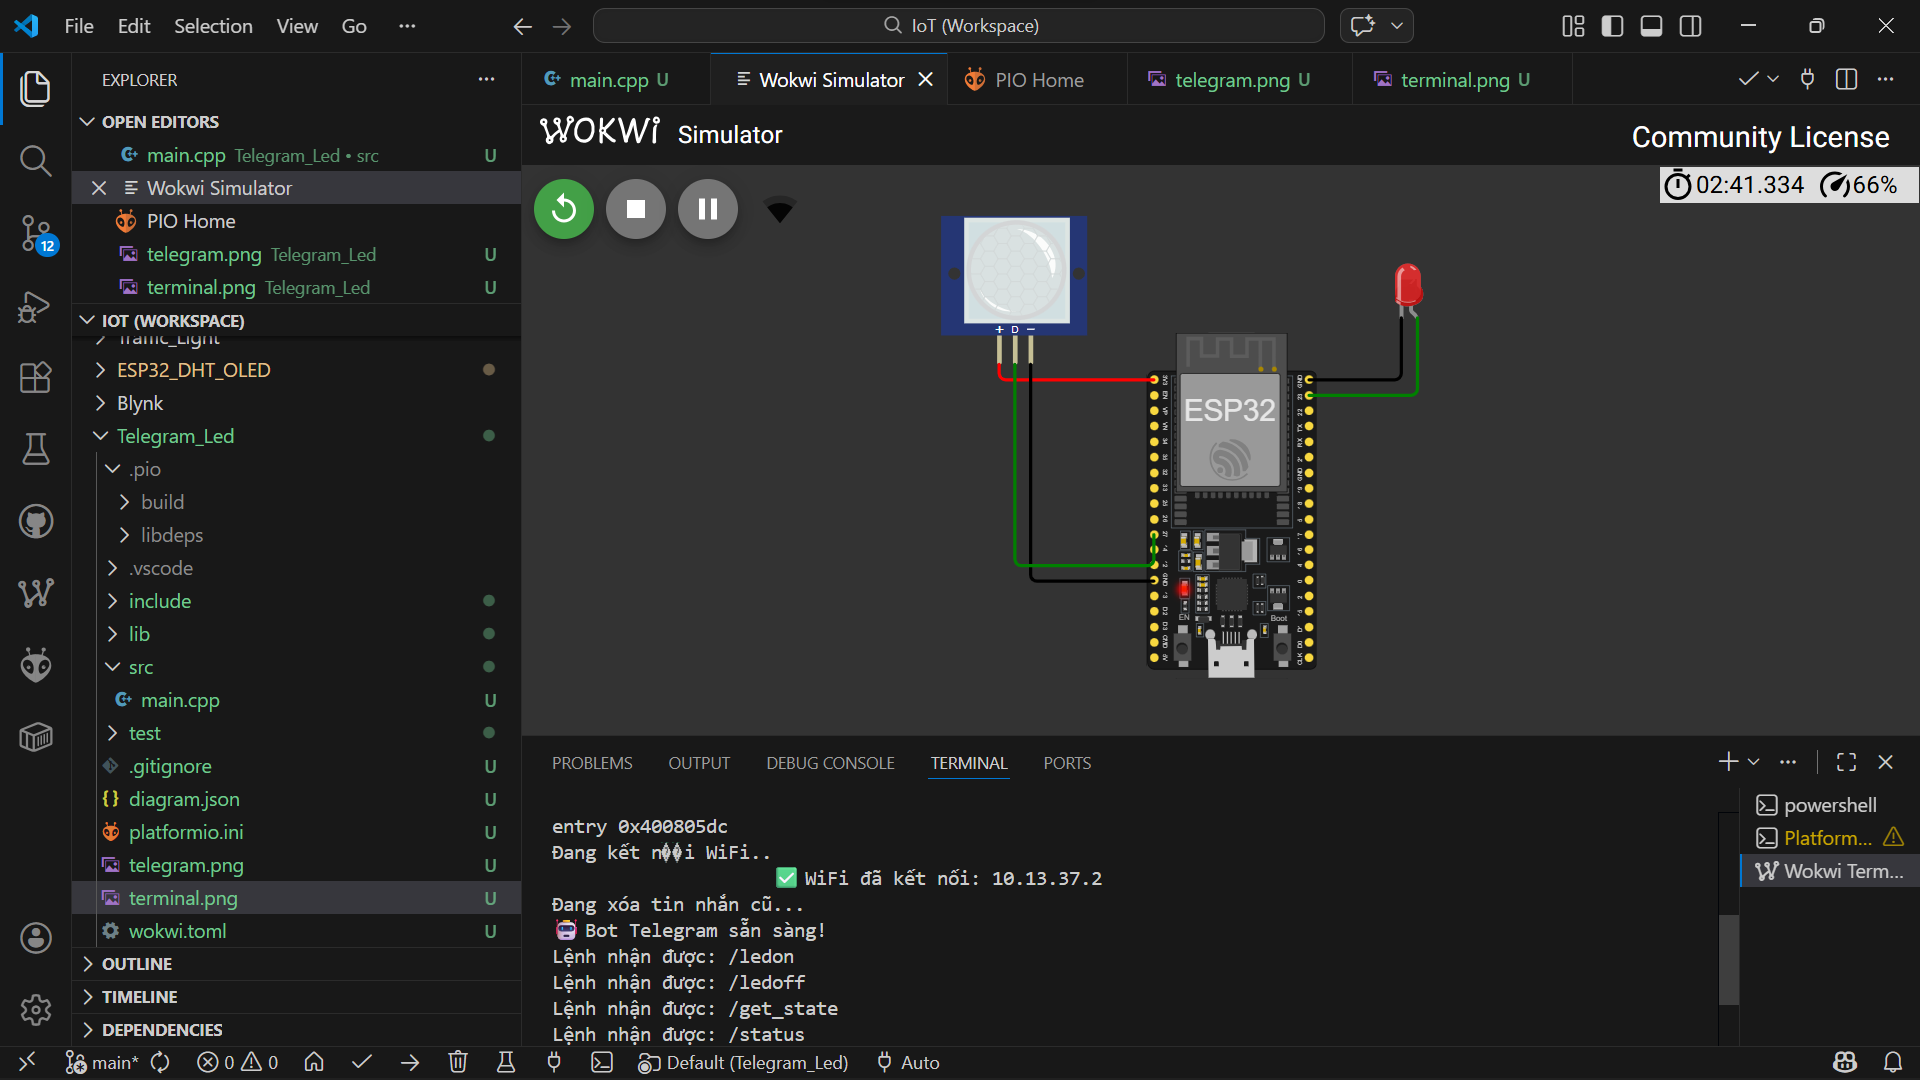
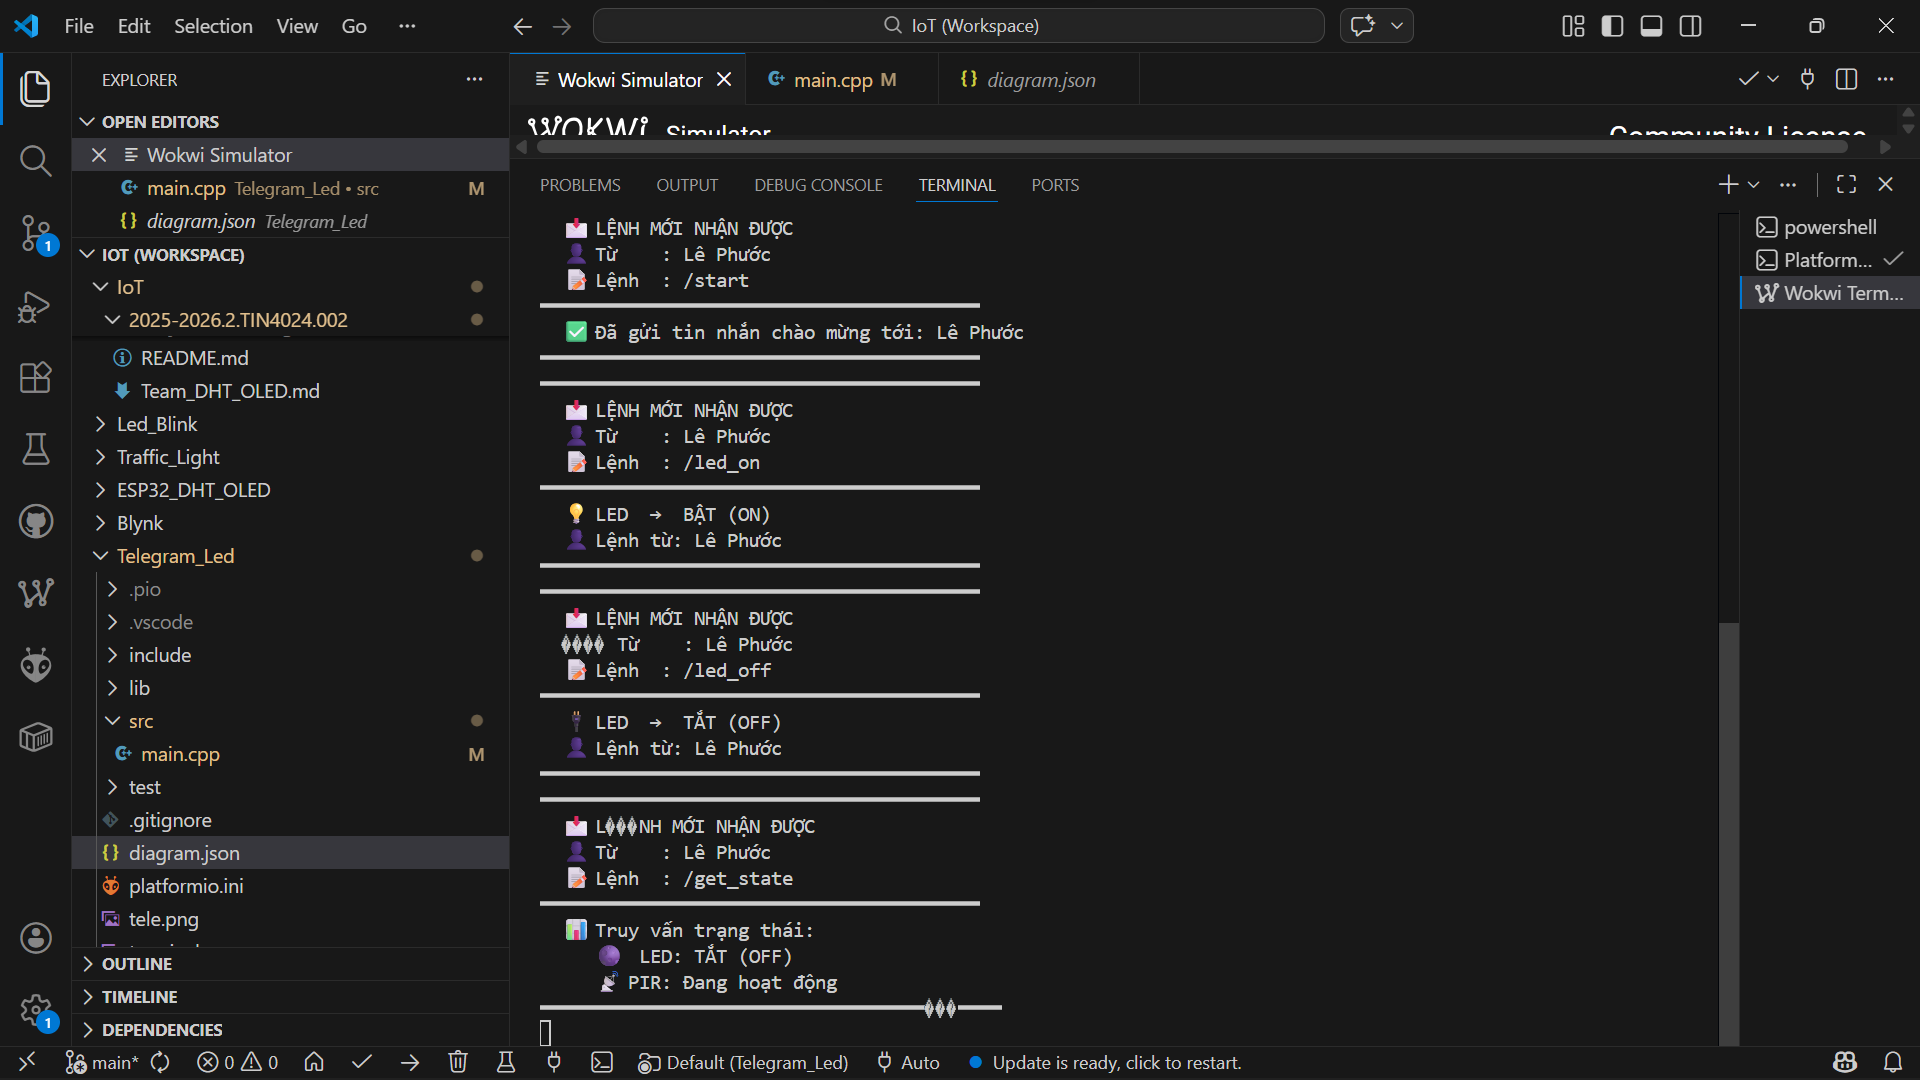
update tele_led

diff --git a/TEAM_08/Le_Phuoc_Phuc/Telegram_Led/src/main.cpp b/TEAM_08/Le_Phuoc_Phuc/Telegram_Led/src/main.cpp
@@ -1,144 +1,248 @@
+
 #include <WiFi.h>
 #include <WiFiClientSecure.h>
 #include <UniversalTelegramBot.h>
 #include <ArduinoJson.h>
 
-// ===== CẤU HÌNH WiFi =====
-const char* ssid     = "Wokwi-GUEST";
-const char* password = "";
+// ============================================================
+//   ⚙  CẤU HÌNH - ĐIỀN THÔNG TIN CỦA BẠN VÀO ĐÂY
+// ============================================================
+#define WIFI_SSID     "Wokwi-GUEST"       // 📶 Tên WiFi
+#define WIFI_PASSWORD ""   // 🔑 Mật khẩu WiFi
+#define BOT_TOKEN  "8751768127:AAHH9cQXVMfQuDJAUmqA07eEJAe-IZzz2XI"       // 🤖 Token từ @BotFather
+#define CHAT_ID   "6443925946"         // 💬 Chat ID của Group
+// ============================================================
 
-// ===== CẤU HÌNH TELEGRAM =====
-#define BOTtoken  "8751768127:AAHH9cQXVMfQuDJAUmqA07eEJAe-IZzz2XI"
-#define CHAT_ID   "6443925946"
+// 📌 Chân GPIO
+#define LED_PIN 23
+#define PIR_PIN 27
 
-// ===== CHÂN PHẦN CỨNG =====
-#define PIR_PIN  27
-#define LED_PIN  23
+// 🔄 Biến trạng thái
+bool ledState        = false;
+bool pirLastState    = false;
+bool pirCurrentState = false;
 
-WiFiClientSecure client;
-UniversalTelegramBot bot(BOTtoken, client);
+// ⏱ Thời gian kiểm tra Telegram (ms)
+unsigned long lastBotCheck       = 0;
+const int     BOT_CHECK_INTERVAL = 1000;  // 1 giây
 
-// ===== BIẾN =====
-unsigned long lastTimeBotRan = 0;
-unsigned long lastPIRAlert   = 0;
-const int botRequestDelay    = 1000;
-const int pirAlertDelay      = 5000;
-bool ledState                = false;
+// ⏱ Thời gian chống nhiễu PIR (ms)
+unsigned long lastPirTrigger = 0;
+const int     PIR_COOLDOWN   = 5000;  // 5 giây
 
-// ===== XỬ LÝ TIN NHẮN =====
-void handleNewMessages(int numNewMessages) {
-  for (int i = 0; i < numNewMessages; i++) {
-    String chat_id = String(bot.messages[i].chat_id);
-    String text    = bot.messages[i].text;
-    String from    = bot.messages[i].from_name;
+WiFiClientSecure      client;
+UniversalTelegramBot  bot(BOT_TOKEN, client);
 
-    if (chat_id != CHAT_ID) {
-      bot.sendMessage(chat_id, "Bạn không có quyền dùng bot này.", "");
-      continue;
-    }
+// ============================================================
+//   🖨  IN ĐƯỜNG KẺ PHÂN CÁCH RA SERIAL
+// ============================================================
+void printDivider() {
+  Serial.println(F("━━━━━━━━━━━━━━━━━━━━━━━━━━━━━━━━━━━━━━━━"));
+}
 
-    Serial.println("Lệnh nhận được: " + text);
+// ============================================================
+//   🎮  XỬ LÝ CÁC LỆNH TỪ TELEGRAM
+// ============================================================
+void handleCommand(String chat_id, String text, String from_name) {
+  printDivider();
+  Serial.println("  📩 LỆNH MỚI NHẬN ĐƯỢC");
+  Serial.println("  👤 Từ    : " + from_name);
+  Serial.println("  📝 Lệnh  : " + text);
+  printDivider();
 
-    if (text == "/start") {
-      String welcome = "Xin chào, " + from + "!\n\n";
-      welcome += "🤖 Hệ thống giám sát chuyển động\n\n";
-      welcome += "Các lệnh có sẵn:\n";
-      welcome += "/start - Khởi động\n";
-      welcome += "/status - Kiểm tra trạng thái\n";
-      welcome += "/ledon - Bật LED\n";
-      welcome += "/ledoff - Tắt LED\n";
-      welcome += "/pir - Kiểm tra cảm biến PIR\n";
-      bot.sendMessage(chat_id, welcome, "");
-    }
-    else if (text == "/status") {
-      String status = "📊 Trạng thái hệ thống:\n";
-      status += "💡 LED: " + String(ledState ? "BẬT ✅" : "TẮT ❌") + "\n";
-      status += "🚶 PIR: " + String(digitalRead(PIR_PIN) ? "Có chuyển động!" : "Không có chuyển động") + "\n";
-      bot.sendMessage(chat_id, status, "");
-    }
-    else if (text == "/ledon") {
-      digitalWrite(LED_PIN, HIGH);  // ✅ GPIO 23
-      ledState = true;
-      bot.sendMessage(chat_id, "💡 LED đã BẬT", "");
-    }
-    else if (text == "/ledoff") {
-      digitalWrite(LED_PIN, LOW);   // ✅ GPIO 23
-      ledState = false;
-      bot.sendMessage(chat_id, "🌑 LED đã TẮT", "");
-    }
-    else if (text == "/pir") {
-      bool motion = digitalRead(PIR_PIN);
-      bot.sendMessage(chat_id, motion ? "🚶 Phát hiện chuyển động!" : "✅ Không có chuyển động", "");
-    }
-    else {
-      bot.sendMessage(chat_id, "❓ Lệnh không hợp lệ. Gõ /start để xem danh sách.", "");
-    }
+  // ----------------------------------------------------------
+  if (text == "/start") {
+    String welcome =
+      "╔══════════════════════════╗\n"
+      "║  🤖  ESP32 CONTROL BOT   ║\n"
+      "╚══════════════════════════╝\n\n"
+      "👋 Xin chào *" + from_name + "*!\n\n"
+      "🟢 Hệ thống đang *hoạt động bình thường*.\n\n"
+      "📋 *DANH SÁCH LỆNH:*\n"
+      "┌─────────────────────────────\n"
+      "│ 💡 /led\\_on   → Bật LED đỏ\n"
+      "│ 🔌 /led\\_off  → Tắt LED đỏ\n"
+      "│ 📊 /get\\_state → Xem trạng thái LED\n"
+      "└─────────────────────────────\n\n"
+      "📡 Bot sẽ *tự động cảnh báo* khi phát hiện chuyển động.";
+    bot.sendMessage(chat_id, welcome, "Markdown");
+
+    Serial.println("  ✅ Đã gửi tin nhắn chào mừng tới: " + from_name);
+    printDivider();
+
+  // ----------------------------------------------------------
+  } else if (text == "/led_on") {
+    ledState = true;
+    digitalWrite(LED_PIN, HIGH);
+
+    String msg =
+      "💡 *LED ĐÃ BẬT*\n"
+      "━━━━━━━━━━━━━━━━\n"
+      "📍 Chân GPIO : 23\n"
+      "🔆 Trạng thái: *ON* (Đang sáng)\n"
+      "👤 Thực hiện bởi: " + from_name;
+    bot.sendMessage(chat_id, msg, "Markdown");
+
+    Serial.println("  💡 LED  →  BẬT (ON)");
+    Serial.println("  👤 Lệnh từ: " + from_name);
+    printDivider();
+
+  // ----------------------------------------------------------
+  } else if (text == "/led_off") {
+    ledState = false;
+    digitalWrite(LED_PIN, LOW);
+
+    String msg =
+      "🔌 *LED ĐÃ TẮT*\n"
+      "━━━━━━━━━━━━━━━━\n"
+      "📍 Chân GPIO : 23\n"
+      "🌑 Trạng thái: *OFF* (Đã tắt)\n"
+      "👤 Thực hiện bởi: " + from_name;
+    bot.sendMessage(chat_id, msg, "Markdown");
+
+    Serial.println("  🔌 LED  →  TẮT (OFF)");
+    Serial.println("  👤 Lệnh từ: " + from_name);
+    printDivider();
+
+  // ----------------------------------------------------------
+  } else if (text == "/get_state") {
+    String stateEmoji  = ledState ? "💡" : "🌑";
+    String stateText   = ledState ? "*BẬT (ON)*"   : "*TẮT (OFF)*";
+    String stateSerial = ledState ? "BẬT (ON)"     : "TẮT (OFF)";
+
+    String msg =
+      "📊 *TRẠNG THÁI THIẾT BỊ*\n"
+      "━━━━━━━━━━━━━━━━━━━━━━━\n"
+      + stateEmoji + " LED      : " + stateText + "\n"
+      "📡 PIR Sensor : Đang theo dõi\n"
+      "🟢 Hệ thống  : Hoạt động bình thường";
+    bot.sendMessage(chat_id, msg, "Markdown");
+
+    Serial.println("  📊 Truy vấn trạng thái:");
+    Serial.println("     " + stateEmoji + "  LED: " + stateSerial);
+    Serial.println("     📡 PIR: Đang hoạt động");
+    printDivider();
+
+  // ----------------------------------------------------------
+  } else {
+    bot.sendMessage(chat_id,
+      "⚠ *Lệnh không hợp lệ!*\n"
+      "Gõ /start để xem danh sách lệnh.",
+      "Markdown");
+
+    Serial.println("  ⚠  Lệnh không xác định: " + text);
+    printDivider();
   }
 }
 
-// ===== SETUP =====
+// ============================================================
+//   🚀  SETUP
+// ============================================================
 void setup() {
   Serial.begin(115200);
-  delay(1000);
+  Serial.println();
+  Serial.println(F("╔════════════════════════════════════════╗"));
+  Serial.println(F("║   🤖  ESP32 TELEGRAM BOT  🤖           ║"));
+  Serial.println(F("║       PIR Motion Sensor Alert          ║"));
+  Serial.println(F("╚════════════════════════════════════════╝"));
+  Serial.println();
 
   pinMode(LED_PIN, OUTPUT);
-  digitalWrite(LED_PIN, LOW);
   pinMode(PIR_PIN, INPUT);
+  digitalWrite(LED_PIN, LOW);
 
-  // Kết nối WiFi
-  WiFi.disconnect(true);
-  delay(500);
-  WiFi.mode(WIFI_STA);
-  delay(500);
+  Serial.println(F("  ✅ GPIO khởi tạo thành công"));
+  Serial.println(F("     📍 LED  → Pin 23"));
+  Serial.println(F("     📍 PIR  → Pin 27"));
+  printDivider();
 
-  Serial.print("Đang kết nối WiFi");
-  WiFi.begin(ssid, password);
+  // 📶 Kết nối WiFi
+  Serial.print(F("  📶 Đang kết nối WiFi"));
+  WiFi.begin(WIFI_SSID, WIFI_PASSWORD);
+  client.setInsecure();
 
-  int timeout = 0;
   while (WiFi.status() != WL_CONNECTED) {
     delay(500);
     Serial.print(".");
-    timeout++;
-    if (timeout > 30) {
-      Serial.println("\n❌ Không kết nối được WiFi! Khởi động lại...");
-      ESP.restart();
-    }
   }
 
-  Serial.println("\n✅ WiFi đã kết nối: " + WiFi.localIP().toString());
+  Serial.println();
+  Serial.println(F("  ✅ WiFi kết nối thành công!"));
+  Serial.print(F("  🌐 Địa chỉ IP : "));
+  Serial.println(WiFi.localIP());
+  printDivider();
 
-  client.setInsecure();
+  // 📨 Gửi thông báo khởi động lên Telegram
+  Serial.println(F("  📨 Đang gửi thông báo khởi động lên Telegram..."));
 
-  // Xóa tin nhắn tồn đọng
-  Serial.println("Đang xóa tin nhắn cũ...");
-  int numNewMessages = bot.getUpdates(bot.last_message_received + 1);
-  while (numNewMessages) {
-    numNewMessages = bot.getUpdates(bot.last_message_received + 1);
-  }
+  bot.sendMessage(CHAT_ID,
+    "🚀 *HỆ THỐNG KHỞI ĐỘNG*\n"
+    "━━━━━━━━━━━━━━━━━━━━━━━\n"
+    "✅ ESP32 đã kết nối thành công!\n"
+    "📡 PIR Sensor đang theo dõi...\n"
+    "💡 LED mặc định : *TẮT (OFF)*\n\n"
+    "📋 Gõ /start để xem danh sách lệnh.",
+    "Markdown");
 
-  Serial.println("🤖 Bot Telegram sẵn sàng!");
+  Serial.println(F("  ✅ Thông báo khởi động đã gửi thành công!"));
+  printDivider();
+  Serial.println(F("  🟢 Hệ thống sẵn sàng hoạt động!"));
+  printDivider();
 }
 
-// ===== LOOP =====
+// ============================================================
+//   🔁  LOOP
+// ============================================================
 void loop() {
-  // Kiểm tra PIR - tự động gửi cảnh báo
-  if (digitalRead(PIR_PIN) == HIGH) {
-    if (millis() - lastPIRAlert > pirAlertDelay) {
-      bot.sendMessage(CHAT_ID, "🚨 CẢNH BÁO: Phát hiện chuyển động!", "");
-      digitalWrite(LED_PIN, HIGH);  // Tự bật LED khi có chuyển động
-      ledState = true;
-      lastPIRAlert = millis();
-      Serial.println("PIR: Phát hiện chuyển động!");
+
+  // ── 📡 Kiểm tra PIR ────────────────────────────────────────
+  pirCurrentState = digitalRead(PIR_PIN);
+
+  if (pirCurrentState == HIGH && pirLastState == LOW) {
+    unsigned long now = millis();
+    if (now - lastPirTrigger > PIR_COOLDOWN) {
+      lastPirTrigger = now;
+
+      printDivider();
+      Serial.println(F("  🚨 CẢNH BÁO CHUYỂN ĐỘNG!"));
+      Serial.println(F("  📡 PIR Sensor đã phát hiện có chuyển động!"));
+      Serial.println(F("  📨 Đang gửi cảnh báo lên Telegram..."));
+      printDivider();
+
+      bot.sendMessage(CHAT_ID,
+        "🚨 *CẢNH BÁO CHUYỂN ĐỘNG!*\n"
+        "━━━━━━━━━━━━━━━━━━━━━━━━━━\n"
+        "📡 PIR Sensor phát hiện *có người/vật di chuyển*!\n"
+        "📍 Vị trí       : Khu vực giám sát\n"
+        "🔴 Mức độ      : Cần chú ý\n"
+        "⏱ Hệ thống đang tiếp tục theo dõi...",
+        "Markdown");
     }
   }
+  pirLastState = pirCurrentState;
 
-  // Nhận lệnh từ Telegram
-  if (millis() > lastTimeBotRan + botRequestDelay) {
+  // ── 🤖 Kiểm tra lệnh Telegram ─────────────────────────────
+  if (millis() - lastBotCheck > BOT_CHECK_INTERVAL) {
+    lastBotCheck = millis();
     int numNewMessages = bot.getUpdates(bot.last_message_received + 1);
-    while (numNewMessages) {
-      handleNewMessages(numNewMessages);
+
+    while (numNewMessages > 0) {
+      for (int i = 0; i < numNewMessages; i++) {
+        String chat_id   = String(bot.messages[i].chat_id);
+        String text      = bot.messages[i].text;
+        String from_name = bot.messages[i].from_name;
+
+        // Chỉ xử lý lệnh từ group đã cấu hình
+        if (chat_id == CHAT_ID) {
+          handleCommand(chat_id, text, from_name);
+        } else {
+          printDivider();
+          Serial.println("  ⚠  Tin nhắn từ chat lạ bị bỏ qua!");
+          Serial.println("  🆔 Chat ID: " + chat_id);
+          printDivider();
+        }
+      }
       numNewMessages = bot.getUpdates(bot.last_message_received + 1);
     }
-    lastTimeBotRan = millis();
   }
 }
